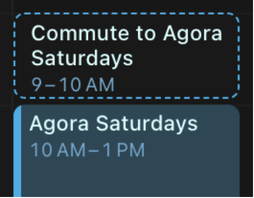
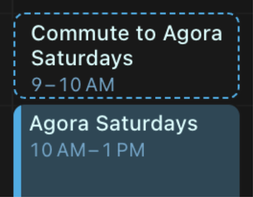
[Blog/Project] Melbourne in Motion: reframe around the Notion Maps pitch, add bidirectional Dijkstra diagram
Restructures the post so the productivity/co-working map idea lands as the
payoff instead of a closing aside, rewrites the opening frustration around
routine disruption, and adds a theme-matched SVG illustrating how
bi-directional Dijkstra searches from both ends at once. Also crops a 1px
white bleed off the hackathon concept image.

diff --git a/src/content/blog/melbourne-in-motion.md b/src/content/blog/melbourne-in-motion.md
@@ -1,6 +1,6 @@
 ---
-title: "Melbourne in Motion: a Digital Twin Born out of a Notion Hackathon"
-description: "how a Best Technical Implementation win at the Notion x Vercel AI Agent Hackathon - a bi-directional Dijkstra router over Melbourne's GTFS + real-time PTV data - turned into a monochrome 3D digital twin of the whole transit network"
+title: "Melbourne in Motion: A Dream Project around Productivity/CoWorking Maps"
+description: "how a Best Technical Implementation win at the Notion x Vercel AI Agent Hackathon turned into a monochrome 3D digital twin of Melbourne's transit network, and a dream for what a map built around productivity, not just transit, could be"
 pubDate: "Nov 9 2026"
 type: "Data"
 heroImage: "/melbourne-in-motion/hero.gif"
@@ -8,9 +8,11 @@ heroImage: "/melbourne-in-motion/hero.gif"
 
 ## The Hackathon
 
-there was a Notion hackathon we took part in, the **Notion x Vercel AI Agent Hackathon**, Friday 21 Aug 2026, me and **Vivek**, **Nathan**, and **Karthick**. we decided to build a feature into Notion Calendar that takes delays and commute times into account
+there was this hackathon i took part in about three months ago, the **Notion x Vercel AI Agent Hackathon** on Friday 21 Aug 2026. Our team: me, **Vivek**, **Nathan**, and **Karthick**, wanted to tackle a frustration that was close to us, and close to every Melburnian
 
-primarily around public transport in Melbourne, because every Melburnian has faced this exact frustration: not being notified of a delay, especially on the route you routinely take. you check the app, it says the train's on time, and then it just... isn't. no notification, nothing
+you take the same route so often you stop checking the app before you leave, you just know when it comes but then one day there's disruption and you didn't check, because why would you, and that one gap throws your whole day off before it's even started. 
+
+so we set out to build a feature for Notion Calendar that actually accounts for that, mainly for public transport in Melbourne
 
 <center>
 
@@ -20,21 +22,27 @@ primarily around public transport in Melbourne, because every Melburnian has fac
 
 ## Teaching a Calendar to Read Timetables
 
-this was very much a proof of concept project. we built a whole backend system that did bi-directional Dijkstra on the Melbourne public transport network, taking into consideration the GTFS schedule and the real-time API
+this was very much a proof of concept. under the hood it needed two things: a map of the network, and a way to search that map fast enough to be useful
 
-GTFS gave us the static shape of the network, stops, routes, timetables, and the real-time API layered live vehicle positions and actual delays on top. **bi-directional Dijkstra** searches outward from both the origin and the destination at once, which is what let us answer "what's my fastest way there, right now, accounting for what's currently running late" on a graph that size without it taking forever
+the map came from **GTFS**, the standard format transit agencies publish timetables in: stops, routes, scheduled times. on top of that we layered Melbourne's **real-time PTV API**, which reports where vehicles actually are and what's actually delayed right now. so we had both the plan and the reality
 
-it was held together by hackathon-grade duct tape, but it worked end to end
+searching that combined map is where **bi-directional Dijkstra** came in: it searches from your origin and your destination at the same time and meets in the middle, which is what let the backend answer "what's my fastest way there, accounting for what's running late right now" without taking forever to compute
 
-we won Best Technical Implementation for the hackathon, btw
+<center>
+
+![bi-directional dijkstra: two frontiers expanding outward from the origin and the destination at once, meeting in the middle instead of one frontier searching the whole network alone](/melbourne-in-motion/bidirectional-dijkstra.svg)
+
+</center>
+
+it was held together by hackathon-grade duct tape, but it worked end to end, and we guess what we even won the Best Technical Implementation for it
 
 ## The Itch That Followed
 
-the hackathon ended, the adrenaline wore off, but one part of the project wouldn't leave me alone: while we were building the routing engine, i'd thrown together some rough visualisations just to debug the thing, to actually *see* the graph search happening instead of staring at coordinates in a console
+the hackathon ended, the adrenaline wore off, everyone went back to their actual jobs. but one part of the project wouldn't leave me alone. while we were building the routing engine, i'd thrown together some rough visualisations just to debug it, to actually *see* the graph search happening instead of staring at coordinates in a console
 
-and it looked way cooler than a debug tool has any right to
+and it looked way cooler than a debug tool has any right to. i kept coming back to it that week, more than i was thinking about the actual routing engine we'd set out to build
 
-so i kept going. what if, instead of a tiny debug view, there was a real digital twin of the entire PTV network? every train, every tram, moving live, rendered over an actual 3D model of the city
+that's usually a sign worth paying attention to: when the thing you built to check your work becomes more interesting than the work itself. so i kept going on it alone, past the hackathon, past the point anyone was asking me to. what if, instead of a tiny debug view, there was a full digital twin of the entire PTV network: a live 3D replica of the city with every train and tram actually moving through it, not just a map with dots on it
 
 <center>
 
@@ -42,11 +50,11 @@ so i kept going. what if, instead of a tiny debug view, there was a real digital
 
 </center>
 
-i put an embarrassing number of hours into this part specifically, the data visualisation and the feel of actually using it. extruded buildings, trees, landmarks, all in this quiet monochrome palette, with each line's trains and trams picked out in their real PTV colours, gliding along the actual road and rail geometry instead of some abstracted line graph. a time scrubber up top lets you pull the whole network back or forward through the day instead of only ever watching it live
+i put an embarrassing number of hours into the visualisation and the feel of actually using it: extruded buildings, trees, landmarks, all in a quiet monochrome palette, with each line's trains and trams in their real PTV colours, gliding along actual road and rail geometry instead of an abstracted line graph
 
-## Line by Line, Train by Train
+## What the Twin Actually Does
 
-the whole point of a digital twin is that you can drill in, so that's what the UI is built around. the sidebar lists every metro line with how many trains are currently running on it, live. tap a line and it unfolds into its full ordered station list, interchanges and all
+the UI is built around being able to drill in. the sidebar lists every metro line with how many trains are running on it right now; tap one and it unfolds into its full station list, interchanges included. tap an actual train or tram on the map and you get a live card for that vehicle: its line, how far away it is, service state, trip ID, plus buttons to fly the camera to it or highlight its whole route across the city
 
 <center>
 
@@ -54,11 +62,7 @@ the whole point of a digital twin is that you can drill in, so that's what the U
 
 </center>
 
-tap an actual train or tram on the map and you get a live card for that specific vehicle: which line it's on, how far away it is, its current service state, its trip ID, plus a focus camera button that flies you to it and a highlight route button that traces its whole path across the city. it's the difference between looking at a network and being able to interrogate it
-
-## Ask It Anything
-
-you shouldn't have to already know a station's exact name to find it, so the search bar understands stations, stops, and landmarks interchangeably. type "southern cross" or "acmi" and it searches the whole transit network, shows a loading state while it works, and then flies the camera straight to the result
+you don't need to already know a station's exact name either. the search bar understands stations, stops, and landmarks interchangeably, so typing "southern cross" or "acmi" flies the camera straight to the result
 
 <center>
 
@@ -66,11 +70,7 @@ you shouldn't have to already know a station's exact name to find it, so the sea
 
 </center>
 
-## A Time Machine, Not Just a Map
-
-a static snapshot of "the network right now" gets boring fast, and it also misses the whole point of a digital twin, which is that it should be able to show you *any* moment, not just this one. so the time readout up top doubles as a scrubber: drag it and you pull the entire network, every train, every tram, backward or forward through the day
-
-drag it late enough and the little sun icon flips to a moon, the whole scene reading as night instead of just a label saying so
+and none of it is locked to right now. the time readout up top doubles as a scrubber: drag it and the entire network, every train, every tram, moves backward or forward through the day with it. drag it late enough and the little sun icon flips to a moon, the whole scene reading as night instead of just a label saying so
 
 <center>
 
@@ -80,21 +80,29 @@ drag it late enough and the little sun icon flips to a moon, the whole scene rea
 
 ## The Bill Arrives
 
-here's the problem: the thing that made this genuinely useful, the real-time delay-aware routing, the bi-directional Dijkstra engine querying live positions constantly, was also the thing that cost actual money to keep running. and this was never a project trying to make money, it was a hackathon prototype that grew a second head
+here's the problem: the part that made this genuinely useful, the real-time delay-aware routing, the bi-directional Dijkstra engine constantly querying live positions, was also the part that cost actual money to keep running. this was never a project trying to make money, it was a hackathon prototype that grew a second head
 
-the ironic part is that the expensive routing backend wasn't even what people reacted to most. everyone who saw this project lit up over the digital twin itself, the simulation, watching the whole city's transit network breathe in real time. that was the actual marketing leverage, not the Dijkstra implementation nobody but me cared about the internals of
+and here's the part that proved the signal from earlier was right: the expensive routing backend wasn't what people reacted to. everyone who saw this project lit up over the digital twin itself, watching the whole city's transit network breathe in real time. that was the actual thing worth showing people, not the Dijkstra implementation nobody but me cared about the internals of
 
-so the honest move was obvious: keep the part people actually connect with, let go of the part i can't justify paying for indefinitely
+so the honest move was obvious: keep the part people actually connect with, let go of the part i can't justify paying for indefinitely. the debug tool had quietly become the product, and the actual product had quietly become overhead
 
-## A Dream Called Notion Maps
+but it also raised the real question: if the transit data itself isn't the differentiator, since every map app already has that, what would be?
 
-if i let myself dream about where this could actually go, it's not "I host my own routing backend forever." it's Notion themselves picking this up, folding delay-aware commute intelligence directly into Notion Calendar, or going further and building something like a **Notion Maps**
+## The Dream: Notion Maps
 
-that's a big dream for a weekend hackathon project, probably too big. but the hackathon proved the concept works, and the digital twin proved it's worth looking at. so for now it lives as what it honestly is
+if i let myself dream about where this goes, it's not me hosting a routing backend forever. it's Notion folding this into Notion Calendar, or going further: a **Notion Maps**
+
+the differentiator would be brand fit, not transit data, every map app already has that covered. Notion's audience already lives in productivity tools, shows up to co-working sessions, and turns out for events like [Agora Saturdays](https://luma.com/agora.melbourne) just to be around other people building things. a map that helps that crowd find each other, not just find a train, would make sense coming from Notion in a way it wouldn't from anyone else
+
+and maybe that's the real opportunity: not another transit app, but a quiet way into the market Luma, Humanitix, and Meetup are already fighting over, one Notion would be walking into with an audience that already shows up
+
+that's a big dream for a weekend project, probably too big. but the hackathon proved the concept, the digital twin proved it's worth looking at. for now, it lives as what it honestly is
 
 ## What's Live Now
 
 i stripped out the expensive moving parts, the live routing backend and the constant real-time API calls, and kept the digital twin: the simulation, the visualisation, the interaction design i'm genuinely proud of. deployed it the same way everything else of mine ends up live, my own GitHub plus Vercel
+
+what's live today is the transit layer. the dream above, the productivity layer, is the part i think is actually worth building next, and the part i'd want to build with Notion rather than around them
 
 [check out Melbourne in Motion](https://melbourneinmotion.vercel.app/), the whole network, live, in your browser
 
